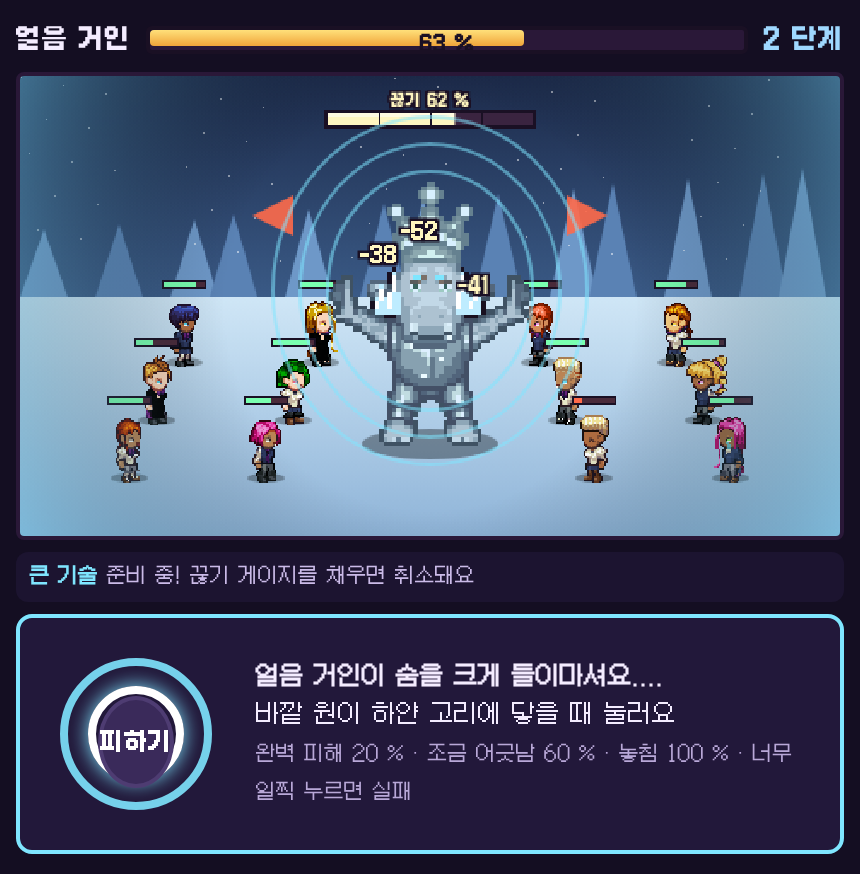
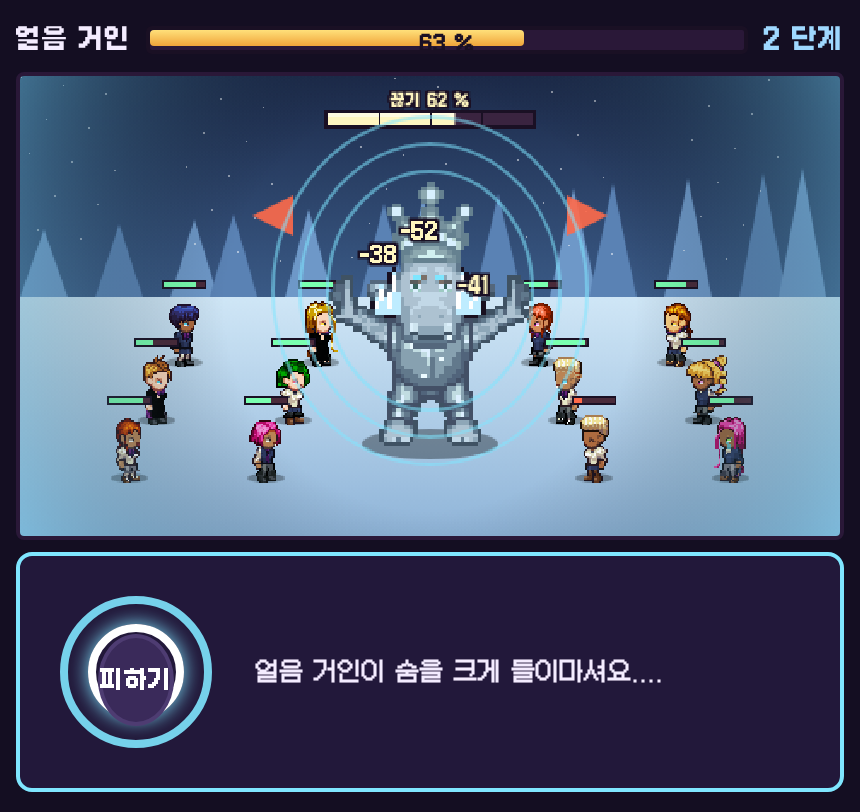
레이드 시안: 전투 · 피하기 화면 설명 글 지움
Claude-Session: https://claude.ai/code/session_01HhJ2NoNCjk5kaA3GWL7UDs

diff --git a/tools/raid_mock/raid_fx.js b/tools/raid_mock/raid_fx.js
@@ -10,7 +10,7 @@ window.__raidFx = async (o) => {
   document.getElementById('raidov')?.remove();
   const ov = document.createElement('div'); ov.id = 'raidov';
   const hpPct = { tele: 63, side: 58, all: 47, big: 21 }[sc], ph = sc === 'big' ? 3 : sc === 'all' ? 2 : 2;
-  const log = { tele: `<b style="color:${BS.c}">${sc === 'tele' ? '큰 기술' : ''}</b> 준비 중! 끊기 게이지를 채우면 취소돼요`, side: `${BS.n}의 <b style="color:${BS.c}">${BS.side}</b>! 뒤쪽 파티 · 하랑 「완벽하게 피했어요」`, all: `${BS.n}의 <b style="color:${BS.c}">${BS.all}</b>! 12 명 모두 · 나 「조금 늦었어요」 피해 60 %`, big: `3 단계 · ${BS.n}의 <b style="color:${BS.c}">${BS.big}</b>! 끊기에 실패했어요....` }[sc];
+  const log = { tele: '', side: `${BS.n}의 <b style="color:${BS.c}">${BS.side}</b>! 뒤쪽 파티 · 하랑 「완벽하게 피했어요」`, all: `${BS.n}의 <b style="color:${BS.c}">${BS.all}</b>! 12 명 모두 · 나 「조금 늦었어요」 피해 60 %`, big: `3 단계 · ${BS.n}의 <b style="color:${BS.c}">${BS.big}</b>! 끊기에 실패했어요....` }[sc];
   ov.innerHTML = `<style>
 #raidov{position:fixed;inset:0;z-index:99999;background:#140e22;color:#f4ecff;font-family:G11,Pretendard,sans-serif;display:flex;flex-direction:column;gap:6px;padding:10px 8px}#raidov>*{flex:none}
 #raidov .rtop{display:flex;align-items:center;gap:8px;font-family:G11B,Pretendard,sans-serif;font-size:13px}
@@ -30,8 +30,8 @@ window.__raidFx = async (o) => {
 </style>
 <div class="rtop">${BS.n}<div class="bar"><i></i><u></u><b>${hpPct} %</b></div><span style="color:#9fd8ff">${ph} 단계</span></div>
 <canvas id="rcv" width="${W}" height="${H}"></canvas>
-<div class="log">${log}</div>
-${sc === 'tele' ? `<div class="dodge"><div class="ring"><div class="o"></div><div class="z"></div><div class="btn">피하기</div></div><p><b>${BS.warnA}</b><br>바깥 원이 하얀 고리에 닿을 때 눌러요<br><small>완벽 피해 20 % · 조금 어긋남 60 % · 놓침 100 % · 너무 일찍 누르면 실패</small></p></div>` : ''}`;
+${log ? `<div class="log">${log}</div>` : ''}
+${sc === 'tele' ? `<div class="dodge"><div class="ring"><div class="o"></div><div class="z"></div><div class="btn">피하기</div></div><p><b>${BS.warnA}</b></p></div>` : ''}`;
   document.body.appendChild(ov);
   const cv = ov.querySelector('#rcv'), g = cv.getContext('2d'); g.imageSmoothingEnabled = false;
   const R = (s => () => (s = (s * 16807) % 2147483647) / 2147483647)(7 + b * 31 + sc.length);

diff --git a/tools/raid_mock/raid_hook.js b/tools/raid_mock/raid_hook.js
@@ -35,10 +35,10 @@ window.__raidMock = async () => {
 </style>
 <div class="rtop">얼음 거인<div class="bar"><i></i><b>63 %</b></div><span class="ph">2 단계</span></div>
 
-<div style="display:grid;grid-template-columns:1fr auto 1fr;font-size:11px;color:#b9a8d8"><span>앞쪽 파티 6 명</span><span style="color:#ffe07a">남은 시간 4 분 12 초</span><span style="text-align:right">뒤쪽 파티 6 명</span></div>
+<div style="text-align:center;font-size:11px;color:#ffe07a">남은 시간 4 분 12 초</div>
 <canvas id="rcv" width="${W}" height="${H}"></canvas>
 <div class="log">얼음 거인이 <b style="color:#9fd8ff">눈보라</b>를 준비해요.... 뒤쪽을 보고 있어요! &nbsp;· 루나의 치유 +42</div>
-<div class="pk">치유할 친구를 눌러요 · 치유의 빛<small>캔버스의 사람을 눌러도 돼요 · 취소</small></div>
+<div class="pk">치유할 친구를 눌러요 · 치유의 빛</div>
 <div class="cards" id="rcards"></div>
 <div class="cmd"><button>공격<small>기본</small></button><button style="border-color:#ffd866;background:#4a3a18">치유의 빛<small>MP 6</small></button><button>보호막<small>MP 10</small></button><button>물약<small>×2</small></button></div>`;
   document.body.appendChild(ov);
@@ -76,7 +76,7 @@ window.__raidMock = async () => {
   const hp = [78, 90, 64, 78, 40, 82, 70, 95, 22, 77, 88, 58], fx = { 1: '보호', 6: '도발', 8: '독' };
   for (const p of pos){ const y = p.y - FH * .8 - 14; g.fillStyle = '#1a1024'; g.fillRect(p.x - 6, y - 1, 13, 8); g.fillStyle = '#ffd866'; g.fillRect(p.x - 5, y, 11, 3); g.fillRect(p.x - 3, y + 3, 7, 2); g.fillRect(p.x - 1, y + 5, 3, 1); }
   const card = i => { const p = pos[i]; return `<div class="rc pick${i === 3 ? ' mine' : ''}${hp[i] <= 30 || hp[i] <= 40 ? ' low' : ''}"><div class="h">${headImg(p.av)}<span><b>${names[i]}</b><span class="j">${XJ[jobs[i]].n}</span></span></div><div class="hb"><i style="width:${hp[i]}%"></i></div><div class="mb"><i style="width:${[50, 30, 70, 55, 80, 60, 40, 90, 65, 35, 75, 50][i]}%"></i></div>${fx[i] ? `<span class="rst">${fx[i]}</span>` : ''}</div>`; };
-  const grp = (t, a) => `<div class="side"><b>${t}</b><div class="sg">${a.map(card).join('')}</div></div>`;
+  const grp = (t, a) => `<div class="side"><div class="sg">${a.map(card).join('')}</div></div>`;
   ov.querySelector('#rcards').innerHTML = grp('앞쪽 파티', [0, 1, 2, 3, 4, 5]) + grp('뒤쪽 파티', [6, 7, 8, 9, 10, 11]);
   return 1;
 };
